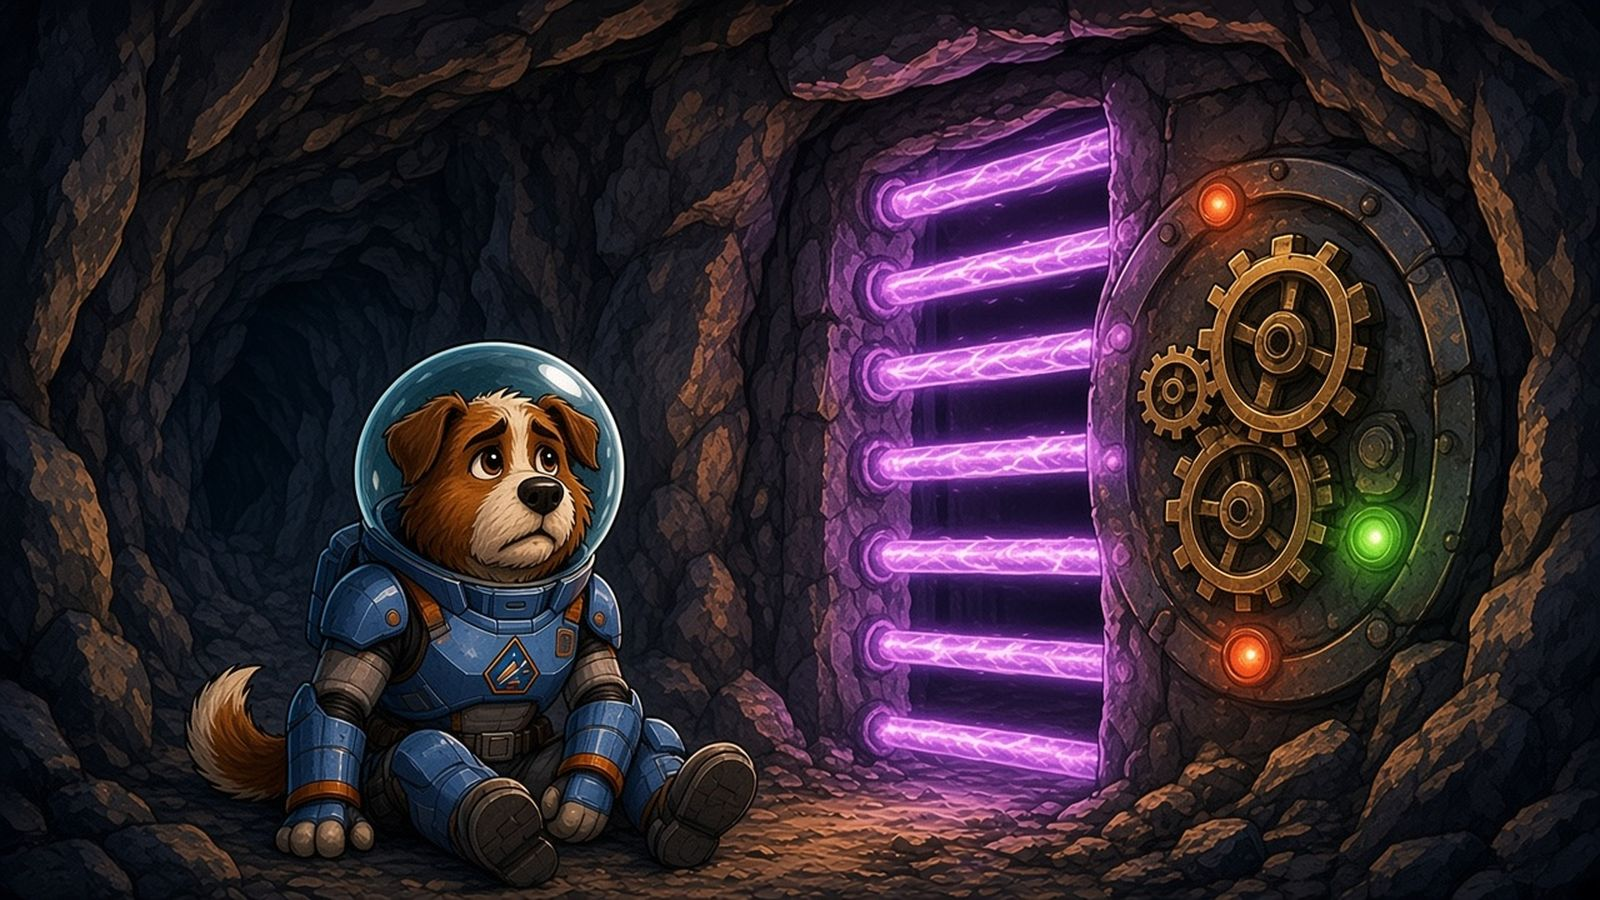
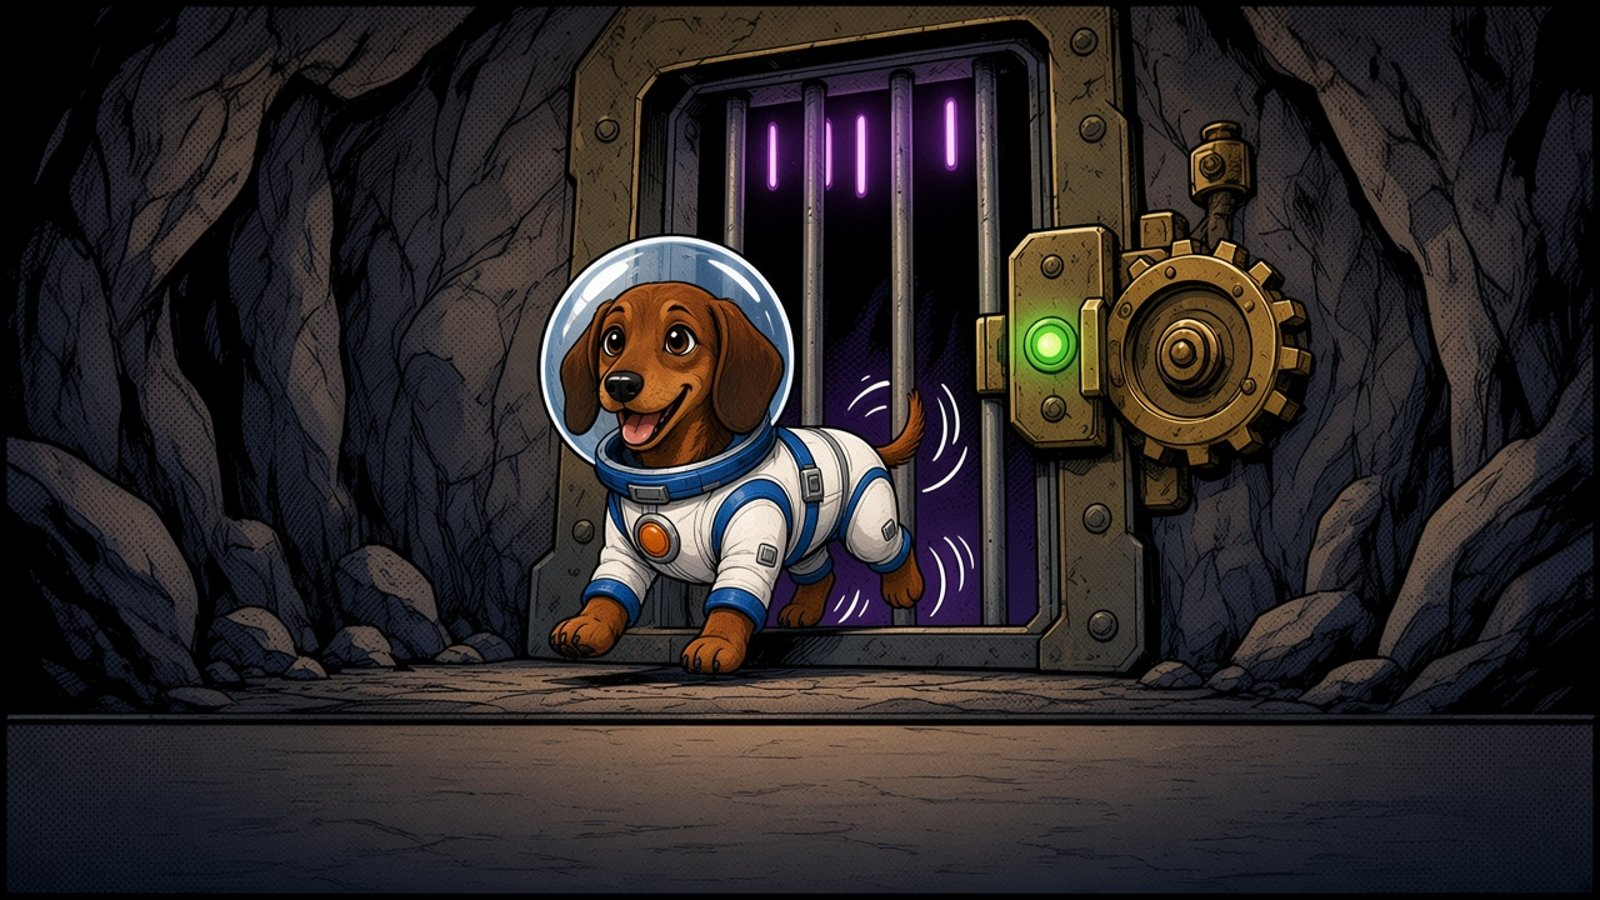
Publish f81327e

diff --git a/game.js b/game.js
@@ -1786,7 +1786,7 @@ const MARSARR=[
  {d:5.5,int:3,img:'c07',cap:'On the Vorr flagship...',bub:[{s:'Let the Earthlings come. My army is digging on Mars. The path to Voyager will be MINE.',x:340,y:170,w:260,tx:330,ty:150,at:.6}]},
  {d:5.5,int:3,img:'c10',cap:'Mission Control, Earth.',bub:[{s:'Your next mission: land on Mars and find out what Malakar is digging for.',x:330,y:70,w:270,tx:300,ty:180,at:.4}]},
  {img:'c27',d:4.5,int:3,cap:'To be continued...',draw:t=>{starfield(T*20);marsBall(320,420,260);ship(320,150+Math.sin(T*2)*6,T,1.2);},fx:{s:'NEXT: MARS!',x:320,y:90,sz:30,at:.4,rot:-.06}}];
-function splitB(beats){if(beats._sp)return beats;if(beats._o)return beats._o;const out=[];for(const b of beats){const bl=(b.bub||[]);const i=bl.findIndex(q=>q.s.length>62);if(i<0){out.push(b);continue;}
+function splitB(beats){if(beats._sp)return beats;if(beats._o)return beats._o;const out=[];for(const b of beats){const bl=(b.bub||[]);for(const q of bl)if(!q.who)q.who=whoOf(q,b)===CAPS[cap].name?'@':whoOf(q,b);const i=bl.findIndex(q=>q.s.length>62);if(i<0){out.push(b);continue;}
  const parts=chunk(bl[i].s,58);parts.forEach((ps,k)=>{const nb={...b,bub:bl.map((q,j)=>j===i?{...q,s:ps,at:k?.15:q.at}:(k?{...q,at:-1}:q))};if(k){nb.fx=null;nb.sting=0;nb.warn=0;nb.d=Math.max(3,b.d*.7);}out.push(nb);});}
  out._sp=1;beats._o=out;return out;}
 function chunk(str,n){const sen=str.match(/[^.!?]+[.!?]+['"]?\s*|[^.!?]+$/g)||[str];const out=[];let cur='';for(const x of sen){if(cur&&(cur+x).length>n){out.push(cur.trim());cur='';}cur+=x;}if(cur.trim())out.push(cur.trim());return out;}
@@ -1846,7 +1846,7 @@ function drawMissions(){starfield(T*8);txt('SELECT MISSION',W/2,30,20,'#ffc53d')
 function drawCard(){const L=MIS[mission];starfield(T*14);if(mission===1)earth(520,250,90);else if(mission>=3)marsBall(520,250,80);else moonBall(520,250,90);
  const a=clamp(stateT*2,0,1);g.globalAlpha=a;txt('MISSION '+mission,W/2,70,34,'#ffc53d');txt(L.name,W/2,112,24,'#ffffff');txt(L.sub,W/2,140,11,'#45d6ff');g.globalAlpha=1;if(COMET&&COMHINT[mission]&&stateT>.6){panel(40,170,404,44,'#ff9a3a');cometMini(66,202,1.2);fitTxt('COMET: '+COMHINT[mission],258,192,12,350,'#ffffff');}
  if(stateT<.8)return;const ln=L.brief[bLine],tt=stateT-.8;panel(28,234,94,114,'#ffc53d');hayesP(75,342,2.2);panel(132,250,486,90);txt('COMMANDER HAYES',145,264,12,'#ffc53d','left');
- {const TA=[0,'Run home, Earthlings. Every Crystal Key will be MINE.','Big Blorp will squash you flat, little captain!','Every fuel station is mine. Enjoy drifting!','Mars belongs to the Vorr now. Turn back!'][mission];if(TA&&IMG.comic_c07){g.save();g.beginPath();g.arc(586,62,34,0,TAU);g.clip();drawCover(IMG.comic_c07,540,20,92,84);g.restore();g.strokeStyle=OL;g.lineWidth=4;g.beginPath();g.arc(586,62,34,0,TAU);g.stroke();g.strokeStyle='#b04aff';g.lineWidth=2;g.stroke();bubble(TA,452,108,170,560,92,true);txt('KING MALAKAR',586,104,7,'#d0a0ff');}}
+ {const TA=[0,'Run home, Earthlings. Every Crystal Key will be MINE.','Big Blorp will squash you flat, little captain!','Every fuel station is mine. Enjoy drifting!','Mars belongs to the Vorr now. Turn back!'][mission];if(TA&&IMG.comic_c07){g.save();g.beginPath();g.arc(586,62,34,0,TAU);g.clip();drawCover(IMG.comic_c07,540,20,92,84);g.restore();g.strokeStyle=OL;g.lineWidth=4;g.beginPath();g.arc(586,62,34,0,TAU);g.stroke();g.strokeStyle='#b04aff';g.lineWidth=2;g.stroke();if(!(COMET&&COMHINT[mission]))bubble(TA,452,108,170,560,92,true);txt('KING MALAKAR',586,104,7,'#d0a0ff');}}
  const shown=ln.slice(0,Math.floor(tt*45));wrap(shown,375,292,450,12,'#ffffff',19);if((T*3|0)%2)txt('▶',600,326,12,'#45d6ff');
  const tp=tapped();if(tp||pressedA||(AUTO&&tt>1.4)){pressedA=false;if(shown.length<ln.length&&!AUTO)stateT=99;else if(++bLine>=L.brief.length)(mission===5?playComic(PHOBOSLAND,()=>{CT=null;go('cart');}):mission===4?playComic(MARSLAND,()=>go('moon')):mission===3?playComic(MARSGO,()=>go('space')):go(mission===1?'launchcut':mission===3?'space':'landing'));else stateT=.8;}}
 let launchFx=[];
@@ -2091,9 +2091,13 @@ function cartArt(x,y,duck,flash,rot){g.save();g.translate(x,y);if(rot)g.rotate(r
  g.fillStyle='rgba(255,220,160,.35)';g.fillRect(-26,-27,52,4);for(const rx of[-18,0,18])circ(rx,-15,2,'#ffe0a0');g.strokeStyle=OL;g.lineWidth=2;g.beginPath();g.moveTo(-24,-14);g.lineTo(24,-14);g.stroke();
  for(const wx of[-15,15]){circ(wx,2,8,OL);circ(wx,2,6,'#6a7090');const a=T*20;g.strokeStyle='#c0c8e0';g.lineWidth=1.5;g.beginPath();g.moveTo(wx+Math.cos(a)*5,2+Math.sin(a)*5);g.lineTo(wx-Math.cos(a)*5,2-Math.sin(a)*5);g.stroke();circ(wx,2,2,'#c0c8e0');}
  g.restore();}
-function cometMini(x,y,sc){g.save();g.translate(x,y);g.scale(sc,sc);circ(0,-8,12,OL);g.fillStyle=ballG(g,0,-8,10,10,'#a8622a');g.beginPath();g.arc(0,-8,10,0,TAU);g.fill();g.fillStyle='#f4e8d8';g.beginPath();g.ellipse(3,-4,6,5,0,0,TAU);g.fill();
- g.fillStyle='#6a3410';g.beginPath();g.ellipse(-8,-12,4,8,.4,0,TAU);g.fill();g.beginPath();g.ellipse(8,-12,4,8,-.4,0,TAU);g.fill();circ(-3,-10,1.8,OL);circ(4,-10,1.8,OL);circ(5,-5,2.2,OL);
- g.strokeStyle='rgba(200,240,255,.9)';g.lineWidth=2;g.beginPath();g.arc(0,-8,15,0,TAU);g.stroke();g.fillStyle='rgba(200,240,255,.15)';g.fill();g.fillStyle='rgba(255,255,255,.6)';g.beginPath();g.ellipse(-6,-17,4,2,-.5,0,TAU);g.fill();g.restore();}
+function cometMini(x,y,sc){g.save();g.translate(x,y);g.scale(sc,sc);// dachshund in a blue/white suit + bubble helmet (ref: assets/ref/comet.jpg)
+ g.fillStyle=OL;g.beginPath();g.ellipse(0,6,13,5,0,0,TAU);g.fill();g.fillStyle='#f4f6fb';g.beginPath();g.ellipse(0,6,11.5,3.8,0,0,TAU);g.fill();g.strokeStyle='#2a5ab8';g.lineWidth=2.4;g.beginPath();g.ellipse(0,5,10,3,0,Math.PI,TAU);g.stroke();circ(0,7.5,2,'#ff7a1a');
+ g.fillStyle=OL;g.beginPath();g.ellipse(1,-8,11.5,10.5,0,0,TAU);g.fill();g.fillStyle=ballG(g,0,-10,10,10,'#a4521e');g.beginPath();g.ellipse(1,-8,10,9,0,0,TAU);g.fill();
+ g.fillStyle=OL;g.beginPath();g.ellipse(10,-3,8.5,5.5,.1,0,TAU);g.fill();g.fillStyle='#c98a4a';g.beginPath();g.ellipse(10,-3,7.2,4.3,.1,0,TAU);g.fill();circ(16.5,-4,2.6,OL);circ(15.8,-4.8,.8,'#fff');
+ g.fillStyle=OL;g.beginPath();g.ellipse(-8,-1,4.6,10,.25,0,TAU);g.fill();g.fillStyle='#6a2e10';g.beginPath();g.ellipse(-8,-1,3.4,8.8,.25,0,TAU);g.fill();
+ circ(3,-12,2.4,OL);circ(3.7,-12.7,.8,'#fff');g.strokeStyle=OL;g.lineWidth=1.2;g.beginPath();g.arc(11,0,3,.3,2.2);g.stroke();
+ g.strokeStyle='rgba(200,240,255,.9)';g.lineWidth=2;g.beginPath();g.arc(2,-7,18,0,TAU);g.stroke();g.fillStyle='rgba(200,240,255,.13)';g.fill();g.fillStyle='rgba(255,255,255,.6)';g.beginPath();g.ellipse(-6,-18,4,2,-.5,0,TAU);g.fill();g.restore();}
 function guardCart(x,y,fl,aim){g.save();g.translate(x,y);blob(0,-30,T,{r:14,face:-1,angry:1,col:'#b04aff',flash:fl>0});
  if(aim){const hy=aim==='hi'?-48:-16;dglow(-26,hy,14,'#ff3a3a',.9);txt(aim==='hi'?'▲':'▼',-26,hy-(aim==='hi'?18:-18),12,'#ff3a3a');}
  g.fillStyle=OL;g.beginPath();g.moveTo(-30,-26);g.lineTo(30,-26);g.lineTo(24,0);g.lineTo(-24,0);g.closePath();g.fill();g.fillStyle=fl>0?'#fff':lg(g,0,-24,0,0,['#8a5ad0','#4a2a8a']);g.beginPath();g.moveTo(-27,-23);g.lineTo(27,-23);g.lineTo(21.5,-2.5);g.lineTo(-21.5,-2.5);g.closePath();g.fill();
@@ -2133,6 +2137,6 @@ const COMETWIN=[
  {img:'c34',d:4.5,int:3,cap:'COMET. Space soldier, first class.',bub:[{s:'I know every Vorr trick. I\'ll sniff them out for you!',x:360,y:120,w:240,tx:300,ty:120,at:.5}],fx:{s:'WOOF!',x:520,y:300,sz:30,at:.3}},
  {img:'c19',d:4,int:3,cap:'Pale Blue has a new crew member.',fx:{s:'COMET JOINS THE CREW!',x:320,y:300,sz:22,at:.4,rot:-.04}}];
 
-window.GR={get C(){return CT},cart:k=>{mission=5;CT=k!=null?{retry:k}:null;go('cart');},boss:t=>spawnBoss(t),pc:(n,i)=>{playComic({COMIC,INTER1,MOONWIN,MARSGO,MARSLAND,MARSWIN,MARSARR}[n],()=>{});comicI=i||0;},beats:n=>splitB({COMIC,INTER1,MOONWIN,MARSGO,MARSLAND,MARSWIN,MARSARR}[n]).length,shard:l=>shardMoment(l,()=>{}),openPause:()=>openPause(),comicJump:i=>{comicI=i;comicT=0;},get SHM(){return SHM},get SHARDS(){return SHARDS},startMission:n=>startMission(n),play:a=>playComic(a==='MOONWIN'?MOONWIN:INTER1,()=>go('victory')),mz:moonZone,get pm(){return !!PAUSEM},get GEMS(){return GEMS},get CRY(){return CRY},state:S,go,get M(){return M},get sp(){return sp},setCap:i=>cap=i,get comicI(){return comicI},VK,unlocked,get t(){return stateT},flashSaved:()=>{SAVET=1.8;},setGO:()=>{GOVER=()=>{};GOT=1;}};
+window.GR={get C(){return CT},cart:k=>{mission=5;CT=k!=null?{retry:k}:null;go('cart');},boss:t=>spawnBoss(t),pc:(n,i)=>{playComic({COMIC,INTER1,MOONWIN,MARSGO,MARSLAND,MARSWIN,MARSARR,COMETWIN,PHOBOSLAND}[n],()=>{});comicI=i||0;},beats:n=>splitB({COMIC,INTER1,MOONWIN,MARSGO,MARSLAND,MARSWIN,MARSARR,COMETWIN,PHOBOSLAND}[n]).length,shard:l=>shardMoment(l,()=>{}),openPause:()=>openPause(),comicJump:i=>{comicI=i;comicT=0;},get SHM(){return SHM},get SHARDS(){return SHARDS},startMission:n=>startMission(n),play:a=>playComic(a==='MOONWIN'?MOONWIN:INTER1,()=>go('victory')),mz:moonZone,get pm(){return !!PAUSEM},get GEMS(){return GEMS},get CRY(){return CRY},state:S,go,get M(){return M},get sp(){return sp},setCap:i=>cap=i,get comicI(){return comicI},VK,unlocked,get t(){return stateT},flashSaved:()=>{SAVET=1.8;},setGO:()=>{GOVER=()=>{};GOT=1;}};
 comicArt();go('title');requestAnimationFrame(frame);
 })();

diff --git a/index.html b/index.html
@@ -5,4 +5,4 @@
 canvas{position:absolute;}#rot{display:none;position:fixed;inset:0;color:#ffc53d;font:bold 22px sans-serif;align-items:center;justify-content:center;text-align:center;background:#090c26}
 @media (orientation:portrait){#rot{display:flex}}</style></head><body>
 <canvas id="c"></canvas><div id="rot">Turn your device sideways<br>to play Pale Blue: Crystal Defenders</div>
-<script src="game.js?v=ec29b50"></script></body></html>
+<script src="game.js?v=f81327e"></script></body></html>
